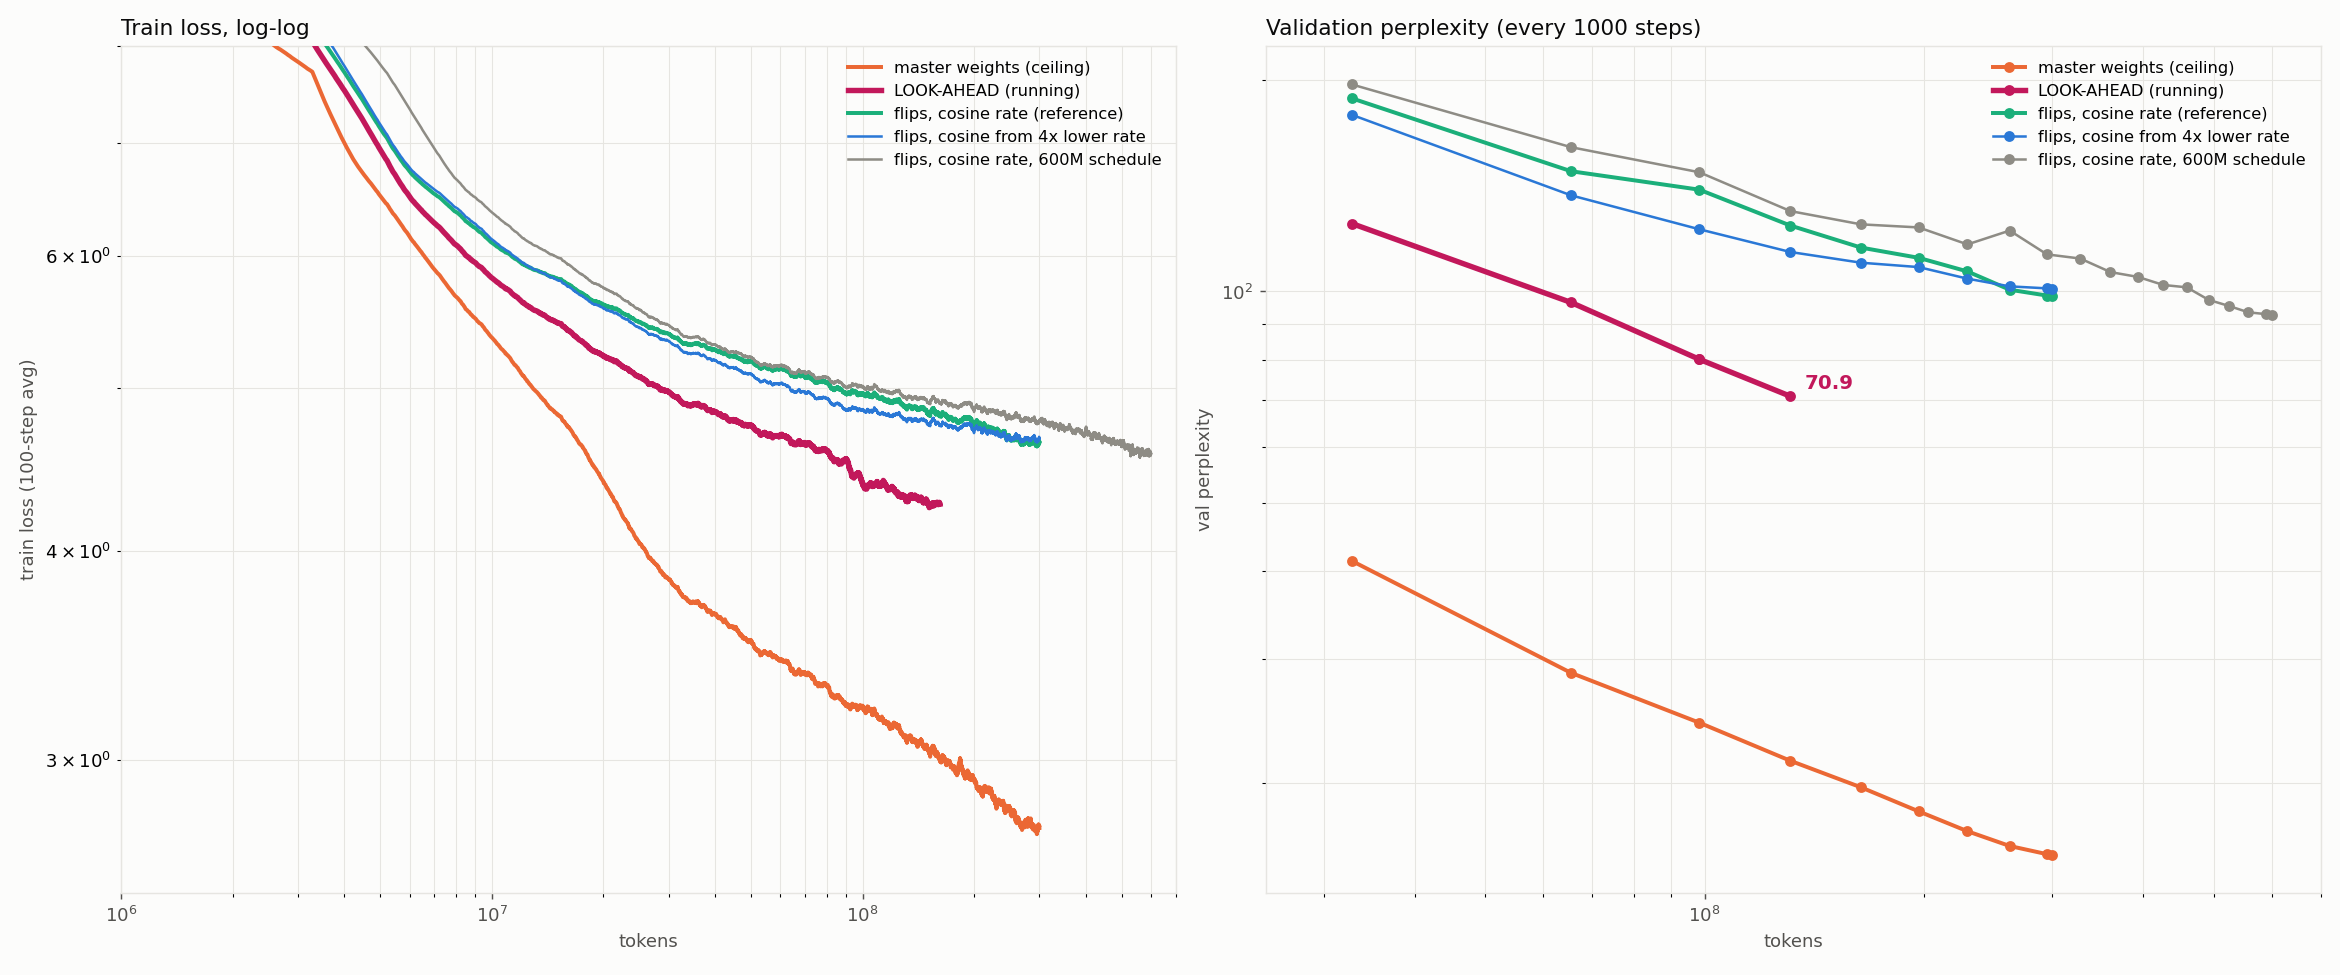
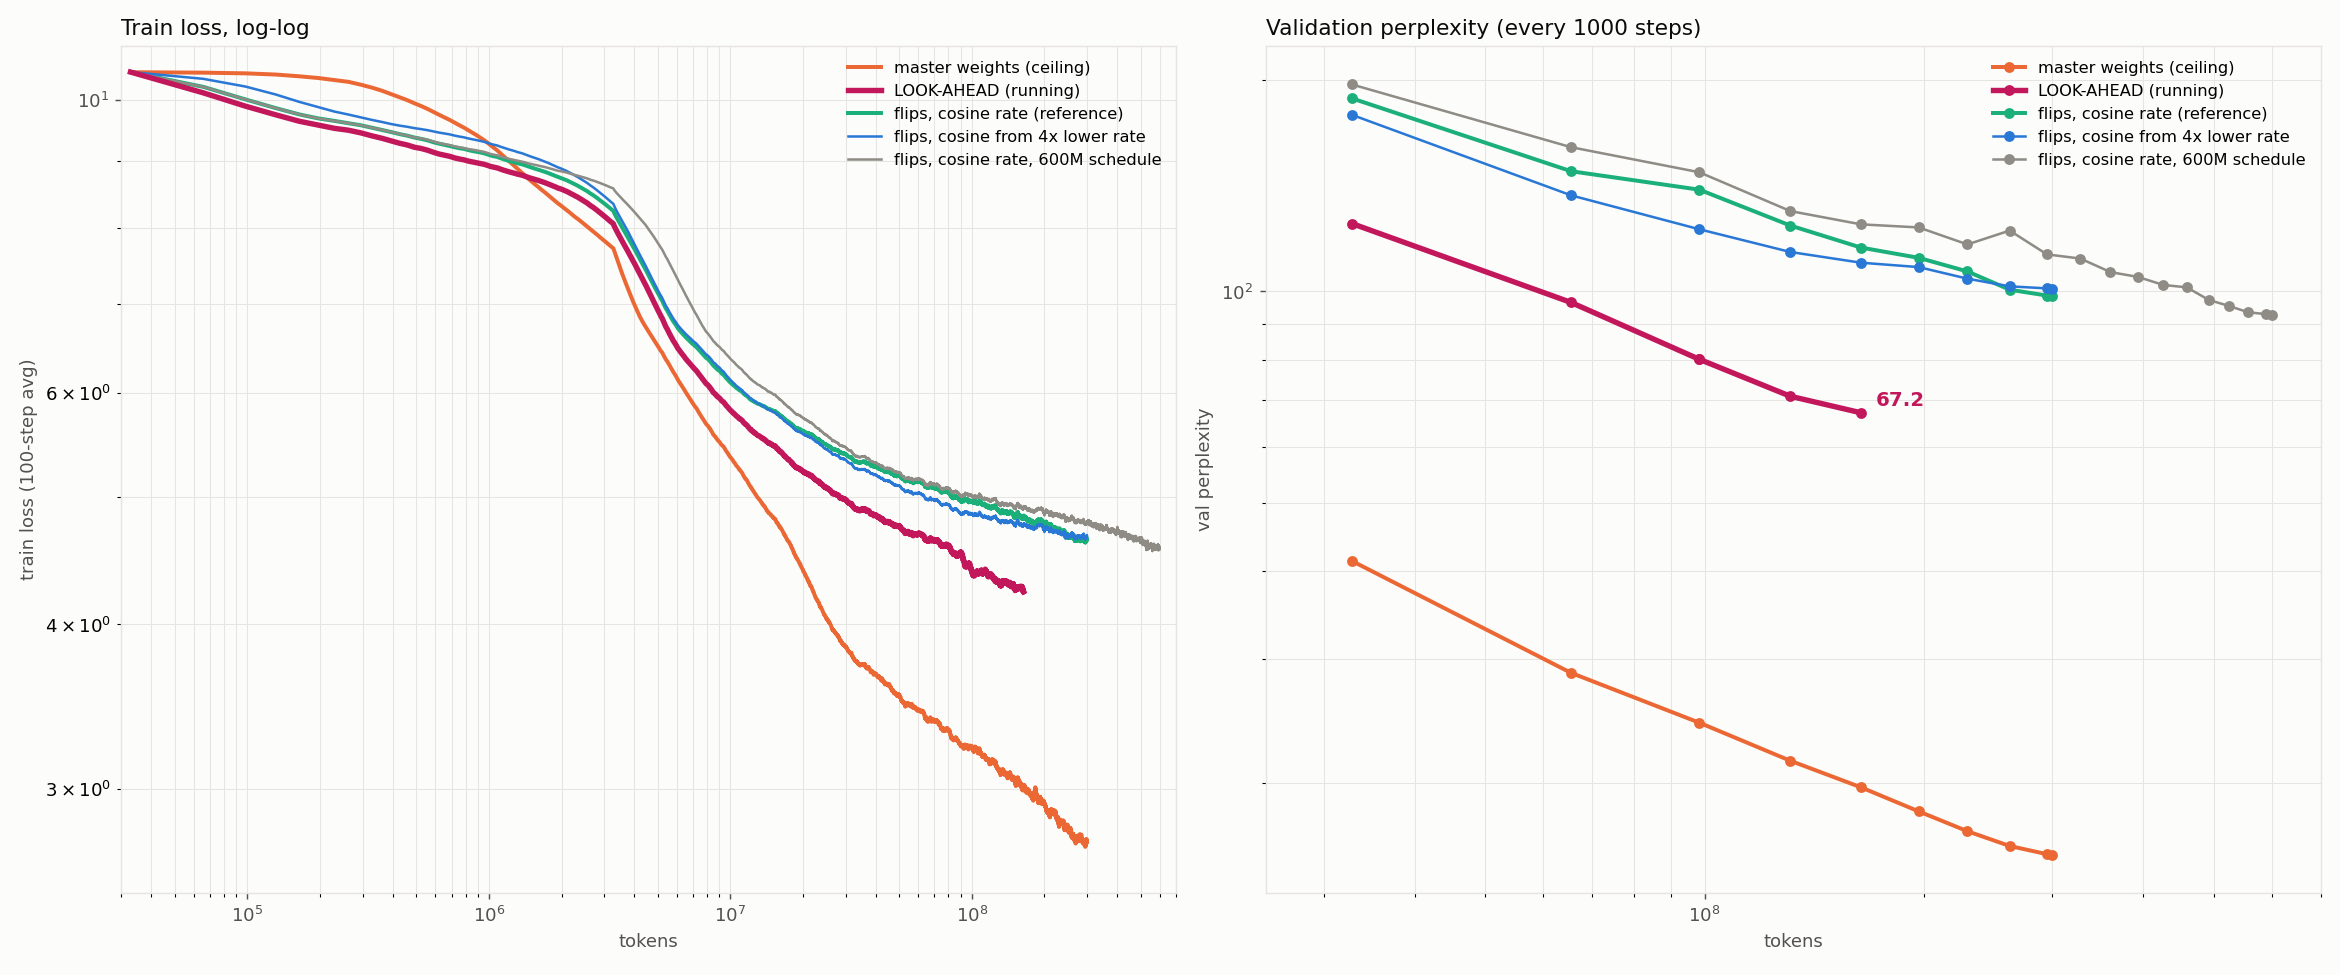
Plot every run on one panel, grouped into bands; plots start at the first step
Claude-Session: https://claude.ai/code/session_01BnM9ozRQbpzv5q7zzVCEsn

diff --git a/plot_all.py b/plot_all.py
@@ -1,4 +1,7 @@
-"""Every run so far on two log-log panels: long runs, and the 300-step alpha screens.
+"""Every run so far on one log-log panel, grouped: a shaded band spans each group's
+runs (min-max of smoothed train loss at each token count, where 2+ runs exist) and a
+solid line shows the group's best run (chosen by hand in GROUPS: the one with the best
+final validation result among its longest runs).
 
   python3 plot_all.py --out docs/all_runs.png
 """
@@ -9,106 +12,79 @@ matplotlib.use("Agg")
 import matplotlib.pyplot as plt
 
 SURFACE, INK, INK2, GRID = "#fcfcfb", "#0b0b0b", "#52514e", "#e6e5e1"
-MASTER, BEST, LA = "#eb6834", "#1baf7a", "#c2185b"
 
-# (dir, label, style) -- style: master | best | la | other
-LONG = [
-    ("p2_baseline",      "master weights + AdamW (ceiling)",    "master"),
-    ("armA_cos_600M",    "flips, cosine rate, 600M",             "best"),
-    ("armA_cosine",      "flips, cosine rate (reference)",       "best"),
-    ("armA_linear",      "flips, linear rate",                   "other"),
-    ("armA_cos_r005",    "flips, cosine from 4x lower rate",     "other"),
-    ("armA_cos_lockout", "flips, cosine + lockout",              "other"),
-    ("armA_cos_floor",   "flips, cosine to 0.02% floor",         "other"),
-    ("p3b_acc1",         "flips, constant rate",                 "other"),
-    ("p3b_acc4",         "flips, constant rate, 4x batch",       "other"),
-    ("armA_cos_ef",      "flips, cosine + error feedback",       "other"),
-    ("armB_absscale",    "flips, frozen threshold scale",        "other"),
-    ("lr_ctl",           "control, 1000 steps",                  "other"),
-    ("lo_once_t200",     "flip-once lockout (t=200)",            "other"),
-    ("lo_once_t1000",    "flip-once lockout (t=1000)",           "other"),
-    ("lo_norev_t1000",   "no-reversal lockout (t=1000)",         "other"),
-    ("armA_cos_lr15",    "cosine, 1.5x lr",                      "other"),
-    ("ef_probe_a0",      "EF probe a=0",                         "other"),
-    ("ef_probe_a0.01",   "EF probe a=0.01",                      "other"),
-    ("ef_probe_a0.03",   "EF probe a=0.03",                      "other"),
-    ("ef_probe_a0.1",    "EF probe a=0.1",                       "other"),
+# (group label, color, best run shown as line, [member runs])
+GROUPS = [
+    ("master weights + AdamW (ceiling)", "#eb6834", "p2_baseline", ["p2_baseline"]),
+    ("stateless look-ahead filter", "#c2185b", "armA_cos_la1",
+     ["armA_cos_la1", "la1", "la2", "la_rwarm"]),
+    ("stateless flips: rate schedules, batch, lr", "#1baf7a", "armA_cos_600M",
+     ["armA_cosine", "armA_cos_600M", "armA_linear", "armA_cos_r005", "armA_cos_floor",
+      "p3b_acc1", "p3b_acc4", "armA_cos_lr15", "lr_ctl"]),
+    ("stateless flips: flip-rule shape (g_ref, row-norm, hump, reverse, rate search)",
+     "#2a78d6", "gref7",
+     ["gref1", "gref7", "gref10", "gref10_r3x", "gref25", "gref100", "rownorm", "invmag",
+      "hump", "rs_smoke"]),
+    ("stateless flips + add-ons (lockout, error feedback, frozen scale)", "#8e8c85",
+     "armA_cos_lockout",
+     ["armA_cos_lockout", "lo_once_t200", "lo_once_t1000", "lo_norev_t1000", "armA_cos_ef",
+      "ef_probe_a0", "ef_probe_a0.01", "ef_probe_a0.03", "ef_probe_a0.1", "armB_absscale"]),
+    ("3-bit evidence counter (not stateless)", "#7b3fb8", "ev3_screen", ["ev3_screen"]),
 ]
-SCREEN = [
-    ("p2_baseline",   "master weights (ceiling)",      "master"),
-    ("armA_cosine",   "ramp g_ref=3 (reference)",      "best"),
-    ("la1",           "LOOK-AHEAD, 1 pass",            "la"),
-    ("la2",           "LOOK-AHEAD, 2 passes",          "la"),
-    ("gref1",         "g_ref=1",                       "other"),
-    ("gref7",         "g_ref=7",                       "other"),
-    ("gref10",        "g_ref=10",                      "other"),
-    ("gref10_r3x",    "g_ref=10, 3x rate",             "other"),
-    ("gref25",        "g_ref=25",                      "other"),
-    ("gref100",       "g_ref=100",                     "other"),
-    ("rownorm",       "per-row normalisation",         "other"),
-    ("ev3_screen",    "3-bit evidence (not stateless)", "other"),
-    ("invmag",        "reverse magnitude",             "other"),
-    ("hump",          "hump in |g|",                   "other"),
-    ("rs_smoke",      "greedy rate search",            "other"),
-]
+GRIDX = np.logspace(np.log10(3.3e4), np.log10(6.1e8), 400)
 
 
 def load(d):
     f = f"checkpoints/{d}/metrics.jsonl"
     if not os.path.exists(f): return None
     rows = [json.loads(l) for l in open(f)]
-    tr = [r for r in rows if "loss" in r and "tokens" in r]
-    if len(tr) < 5: return None
-    t = np.array([r["tokens"] for r in tr], float); L = np.array([r["loss"] for r in tr])
-    v = [r for r in rows if "val_loss" in r]
-    return t, L, (np.exp(v[-1]["val_loss"]) if v else None), np.array([r["step"] for r in tr])
-
-
-def smooth(L, k):
+    tr = {}
+    for r in rows:                       # last record per step wins (resumes re-log)
+        if "loss" in r and "tokens" in r: tr[r["step"]] = r
+    if len(tr) < 10: return None
+    s = sorted(tr)
+    t = np.array([tr[i]["tokens"] for i in s], float)
+    L = np.array([tr[i]["loss"] for i in s])
+    k = 50
     c = np.cumsum(np.insert(L, 0, 0.0))
-    return np.array([(c[i + 1] - c[max(0, i - k + 1)]) / (i + 1 - max(0, i - k + 1)) for i in range(len(L))])
+    Ls = np.array([(c[i + 1] - c[max(0, i - k + 1)]) / (i + 1 - max(0, i - k + 1)) for i in range(len(L))])
+    v = [r for r in rows if "val_loss" in r]
+    return t, Ls, (np.exp(v[-1]["val_loss"]) if v else None)
 
 
-def alpha(t, Ls, s):
-    m = (s >= 100) & (s <= 300)
-    return np.polyfit(np.log(t[m]), np.log(Ls[m]), 1)[0] if m.sum() > 50 and s.max() >= 290 else None
+def on_grid(t, Ls):
+    y = np.interp(np.log(GRIDX), np.log(t), np.log(Ls), left=np.nan, right=np.nan)
+    return np.exp(y)
 
 
 ap = argparse.ArgumentParser(); ap.add_argument("--out", default="docs/all_runs.png")
 a = ap.parse_args()
-fig, (ax1, ax2) = plt.subplots(1, 2, figsize=(20, 9), facecolor=SURFACE)
-others = plt.get_cmap("tab20")
+fig, ax = plt.subplots(figsize=(15, 9), facecolor=SURFACE)
+for label, color, best, members in GROUPS:
+    curves = {d: load(d) for d in members}
+    curves = {d: r for d, r in curves.items() if r is not None}
+    if not curves: continue
+    G = np.array([on_grid(t, Ls) for t, Ls, _ in curves.values()])
+    n = np.sum(~np.isnan(G), axis=0)
+    lo, hi = np.nanmin(np.where(n > 0, G, np.inf), axis=0), np.nanmax(np.where(n > 0, G, -np.inf), axis=0)
+    m = n >= 2
+    if m.any():
+        ax.fill_between(GRIDX, np.where(m, lo, np.nan), np.where(m, hi, np.nan),
+                        color=color, alpha=0.18, lw=0)
+    t, Ls, ppl = curves[best]
+    tag = f"  [best: {best}" + (f", val ppl {ppl:.1f}" if ppl else "") + f", {t[-1]/1e6:.0f}M tok]"
+    ax.plot(t, Ls, color=color, lw=2.6 if len(members) > 1 else 2.2,
+            label=f"{label} — {len(curves)} run{'s' if len(curves) > 1 else ''}{tag}")
 
-for ax, runs, title in ((ax1, LONG, "All training runs (train loss, 100-step smoothing)"),
-                        (ax2, SCREEN, "300-step α screens (train loss, 25-step smoothing, α over steps 100-300)")):
-    oi = 0
-    for d, lab, st in runs:
-        r = load(d)
-        if r is None: continue
-        t, L, ppl, s = r
-        if ax is ax2:
-            keep = s <= 300; t, L, s = t[keep], L[keep], s[keep]
-        Ls = smooth(L, 100 if ax is ax1 else 25)
-        if st == "master": c, lw, z = MASTER, 2.6, 5
-        elif st == "best": c, lw, z = BEST, 2.6, 5
-        elif st == "la": c, lw, z = LA, 3.0, 6
-        else: c, lw, z = others(oi % 20), 1.2, 3; oi += 1
-        ls = "--" if (st == "la" and d == "la2") else "-"
-        if ax is ax1:
-            extra = f"  ppl {ppl:.1f}" if ppl else ""
-            extra += f"  [{t[-1]/1e6:.0f}M tok]"
-        else:
-            al = alpha(t, Ls, s)
-            extra = f"  α {al:+.3f}" if al is not None else (f"  (running, step {s.max()})" if d == "la2" else f"  (stopped at step {s.max()})")
-        ax.plot(t, Ls, color=c, lw=lw, ls=ls, zorder=z, label=lab + extra)
-    ax.set_xscale("log"); ax.set_yscale("log")
-    ax.set_facecolor(SURFACE); ax.grid(True, which="both", color=GRID, lw=0.6)
-    ax.set_xlabel("tokens", color=INK2); ax.set_ylabel("train loss", color=INK2)
-    ax.set_title(title, color=INK, fontsize=12, loc="left")
-    for sp in ax.spines.values(): sp.set_color(GRID)
-    ax.tick_params(colors=INK2)
-    ax.legend(fontsize=8, frameon=False, loc="lower left")
-ax1.set_ylim(2.3, 11); ax2.set_xlim(2e5, 1.05e7); ax2.set_ylim(5.0, 11)
+ax.set_xscale("log"); ax.set_yscale("log")
+ax.set_xlim(3e4, 7e8); ax.set_ylim(2.5, 11)
+ax.set_facecolor(SURFACE); ax.grid(True, which="both", color=GRID, lw=0.6)
+ax.set_xlabel("tokens", color=INK2); ax.set_ylabel("train loss (50-step avg)", color=INK2)
+ax.set_title("All runs, grouped: band = range of the group's runs, line = its best run",
+             color=INK, fontsize=12, loc="left")
+for sp in ax.spines.values(): sp.set_color(GRID)
+ax.tick_params(colors=INK2)
+ax.legend(fontsize=9, frameon=False, loc="lower left")
 fig.tight_layout()
 os.makedirs(os.path.dirname(a.out) or ".", exist_ok=True)
 fig.savefig(a.out, dpi=130, facecolor=SURFACE)

diff --git a/plot_early.py b/plot_early.py
@@ -56,13 +56,13 @@ for d, lab, c, _ in RUNS[1:3]:
     ax3.plot(t, [D[d][i]["flip_rate_cfg"] * 100 / 5 for i in s], color=c, lw=1.2, ls="--",
              label=lab + " (rate/5, schedule)")
 
-ax1.set_xscale("log"); ax1.set_yscale("log"); ax1.set_xlim(1e6, 3.5e7); ax1.set_ylim(3.6, 9)
+ax1.set_xscale("log"); ax1.set_yscale("log"); ax1.set_xlim(3e4, 3.5e7); ax1.set_ylim(3.6, 11)
 ax1.set_title("Train loss (50-step avg), first 33M tokens", loc="left", color=INK)
 ax1.set_ylabel("train loss", color=INK2)
-ax2.set_xscale("log"); ax2.set_xlim(1e6, 3.5e7)
+ax2.set_xscale("log"); ax2.set_xlim(3e4, 3.5e7)
 ax2.set_title("Loss difference: rate warmup minus look-ahead", loc="left", color=INK)
 ax2.set_ylabel("Δ train loss (+ = warmup worse)", color=INK2)
-ax3.set_xscale("log"); ax3.set_xlim(1e6, 3.5e7)
+ax3.set_xscale("log"); ax3.set_xlim(3e4, 3.5e7)
 ax3.set_title("Flips per step (% of weights)", loc="left", color=INK)
 ax3.set_ylabel("% of weights", color=INK2)
 for ax in (ax1, ax2, ax3):

diff --git a/plot_live.py b/plot_live.py
@@ -52,7 +52,7 @@ for ax, yl, title in ((ax1, "train loss (100-step avg)", "Train loss, log-log"),
     ax.set_title(title, color=INK, fontsize=12, loc="left")
     for sp in ax.spines.values(): sp.set_color(GRID)
     ax.tick_params(colors=INK2); ax.legend(fontsize=9, frameon=False)
-ax1.set_xlim(1e6, 7e8); ax1.set_ylim(2.5, 8)
+ax1.set_xlim(3e4, 7e8); ax1.set_ylim(2.5, 11)
 ax2.set_xlim(2.5e7, 7e8)
 fig.tight_layout()
 os.makedirs(os.path.dirname(a.out) or ".", exist_ok=True)
